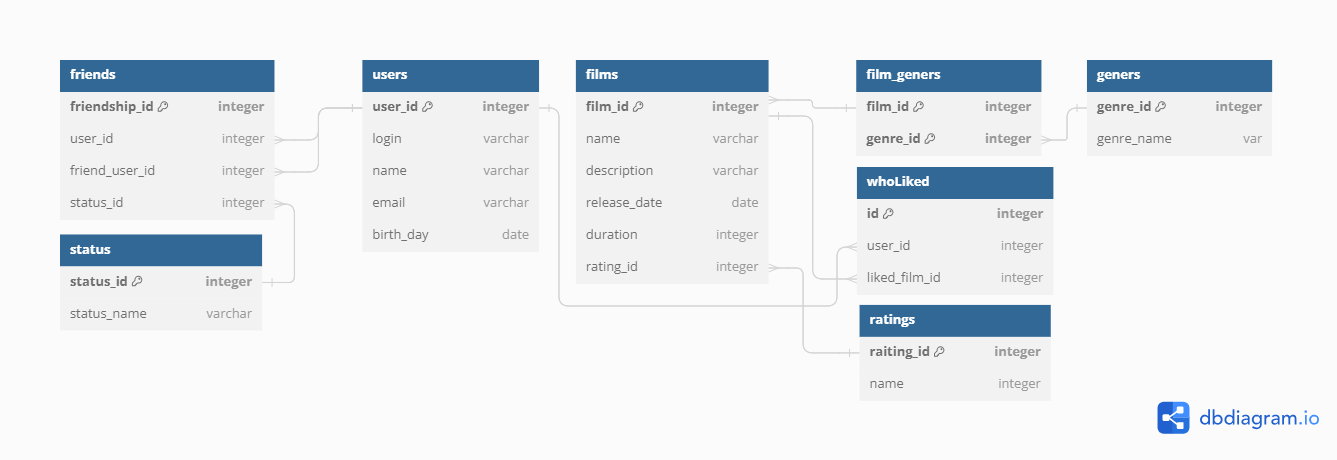
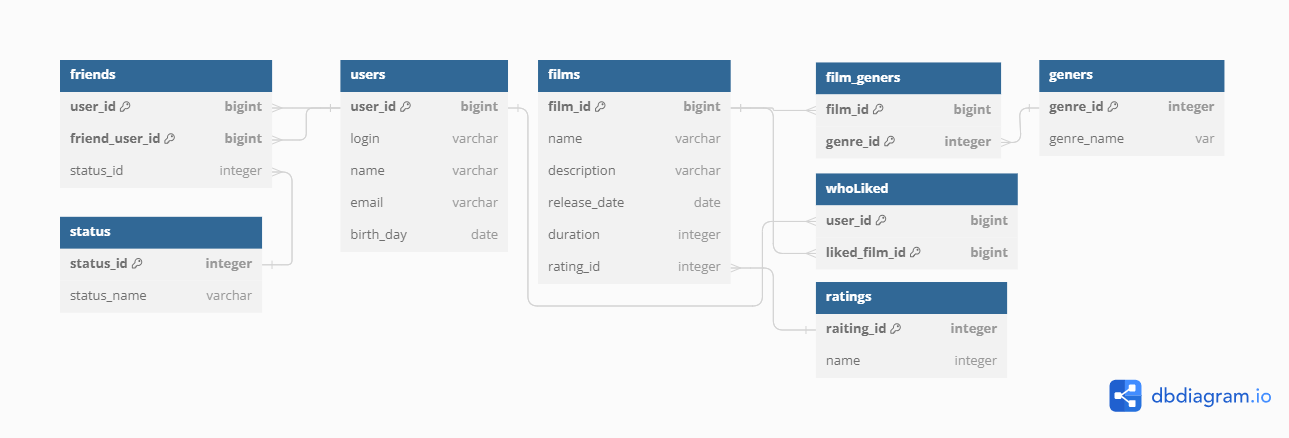
Изменить базу данных на основе вебинара

diff --git a/src/main/java/ru/yandex/practicum/filmorate/storage/InMemoryUserStorage.java b/src/main/java/ru/yandex/practicum/filmorate/storage/InMemoryUserStorage.java
@@ -41,28 +41,28 @@ public class InMemoryUserStorage implements UserStorage {
     @Override
     public User addUser(User newUser) {
         validate(newUser);
-        newUser.setId(parseId());
-        users.put(newUser.getId(), newUser);
+        newUser.setUserId(parseId());
+        users.put(newUser.getUserId(), newUser);
         return newUser;
     }
 
     @Override
     public User updateUser(User user) {
 
-        if (user.getId() == null) {
+        if (user.getUserId() == null) {
             log.warn("Не указан Id");
             throw new ValidationException("Id должен быть указан");
         }
-        isUserExist(user.getId());
+        isUserExist(user.getUserId());
         validate(user);
-        users.put(user.getId(), user);
+        users.put(user.getUserId(), user);
         return user;
     }
 
     @Override
     public User deleteUser(User user) {
-        isUserExist(user.getId());
-        return users.remove(user.getId());
+        isUserExist(user.getUserId());
+        return users.remove(user.getUserId());
     }
 
     private Long parseId() {

diff --git a/src/main/java/ru/yandex/practicum/filmorate/model/User.java b/src/main/java/ru/yandex/practicum/filmorate/model/User.java
@@ -12,7 +12,7 @@ import java.util.Set;
 @Data
 @JsonIgnoreProperties("friends")
 public class User {
-    Long id;
+    Long userId;
     @NotBlank
     String login;
     String name;
@@ -20,8 +20,10 @@ public class User {
     String email;
     //@JsonFormat(pattern = "dd.MM.yyyy") //Более читаемая дата, коммент так как не проходят тесты
     LocalDate birthday;
+    @Deprecated
     @EqualsAndHashCode.Exclude
     Set<User> friends = new HashSet<>();
+    @Deprecated
     @EqualsAndHashCode.Exclude
     FriendStatus friendStatus;
 }
